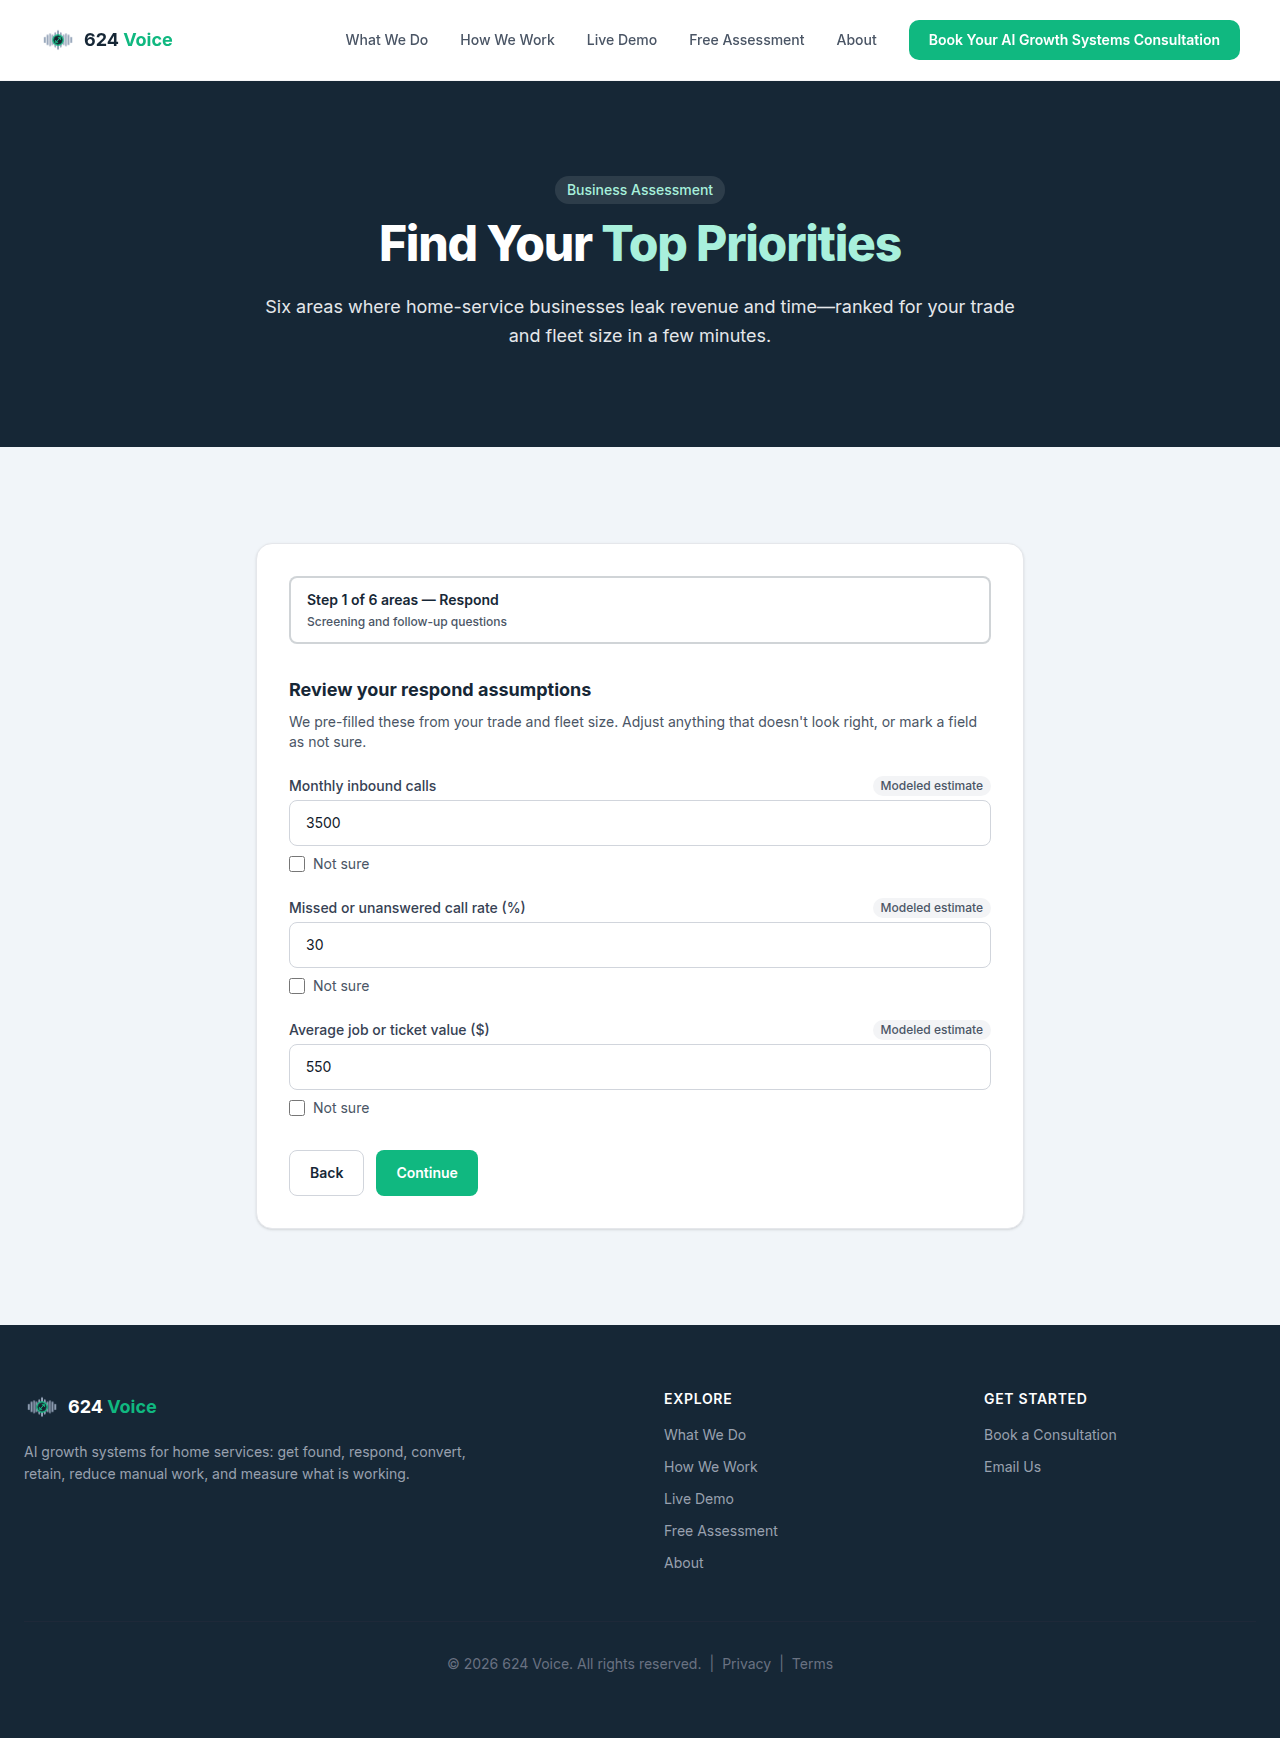
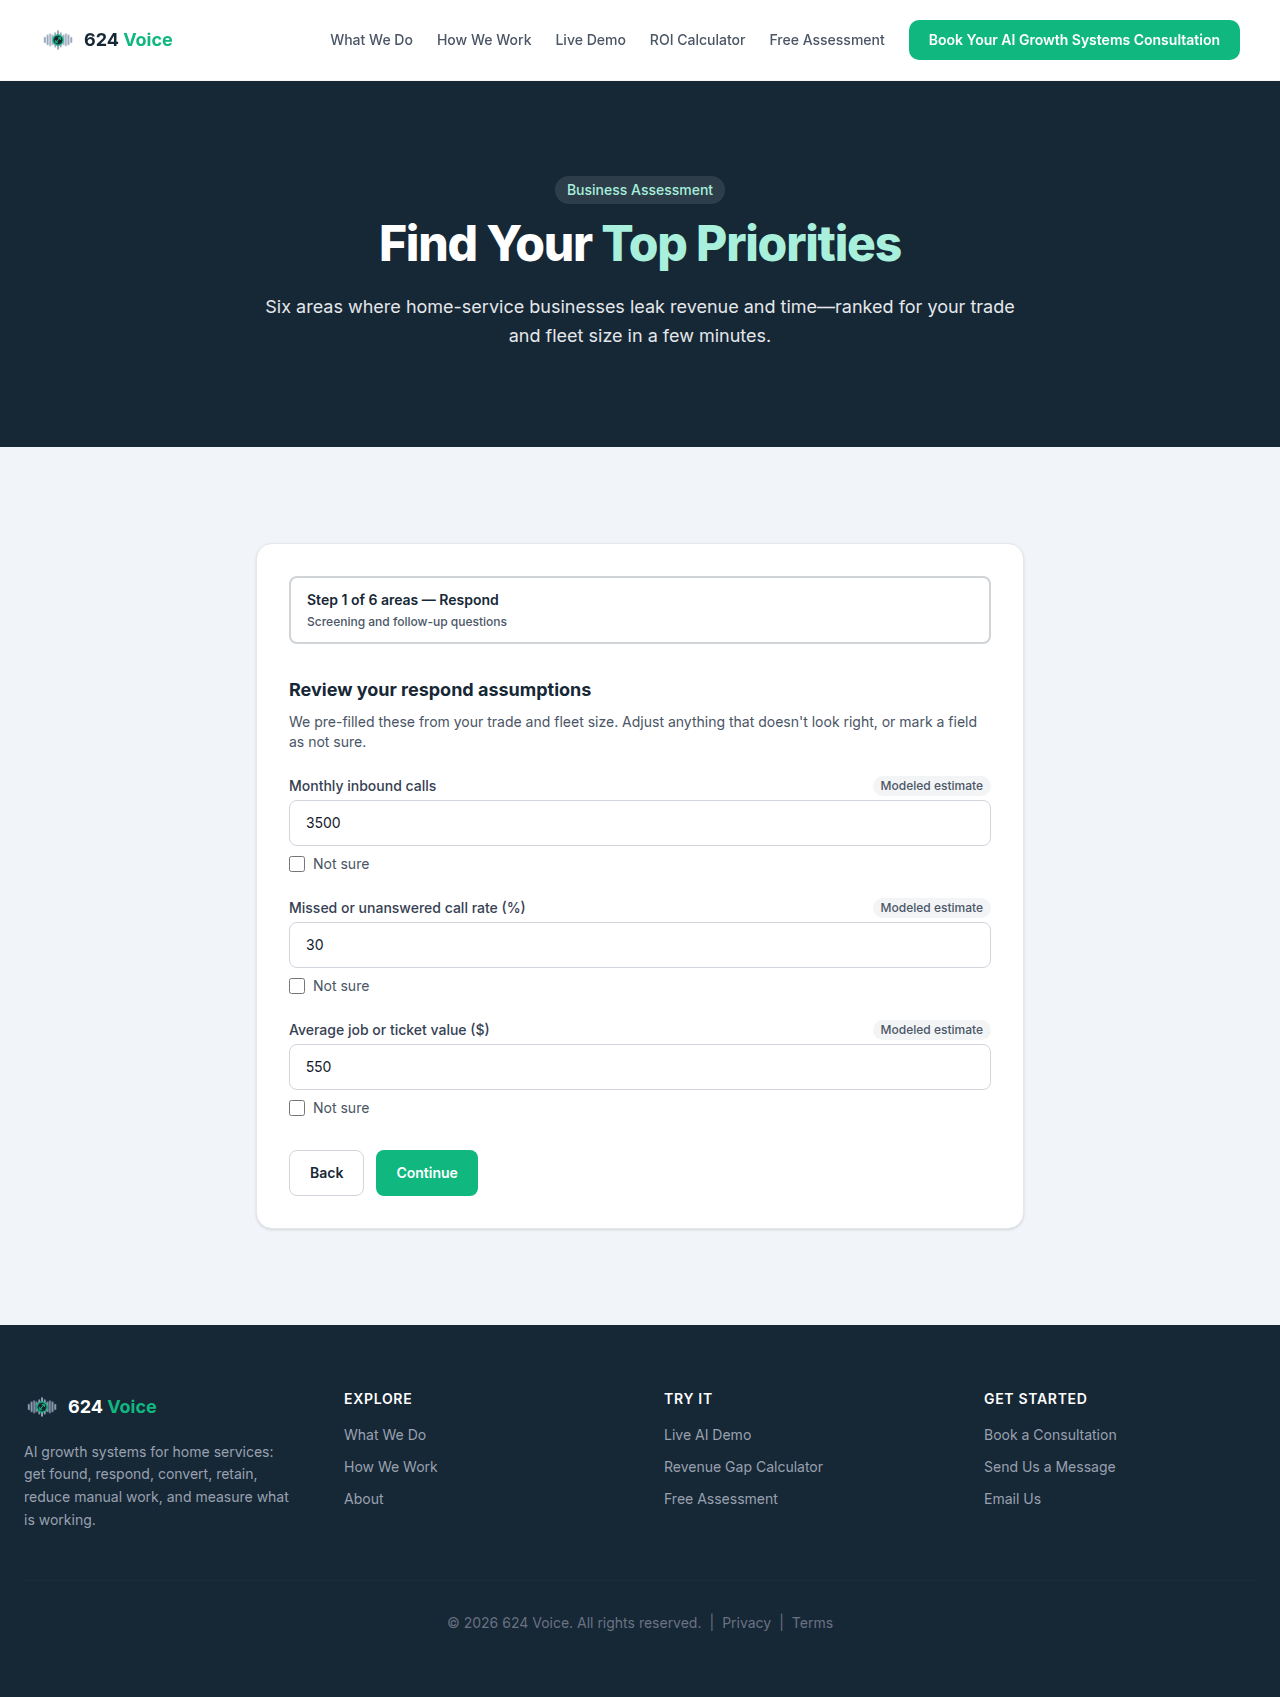
Add conversion handoff, protected preview URL, and review screenshots

diff --git a/review-artifacts/phase2/owner-keyboard-walkthrough-v5.md b/review-artifacts/phase2/owner-keyboard-walkthrough-v5.md
@@ -2,12 +2,12 @@
 
 ## EXECUTABLE CHECKOUT SHA
 
-**Final executable preview checkout SHA:** `c06761d7aa70619520bd80f109d384a1f58ad6e2`
+**Final executable preview checkout SHA:** `d041587f7a6c8e731691d00587fc39141db69a7b`
 
 ## CHECKOUT
 
 ```bash
-git checkout c06761d7aa70619520bd80f109d384a1f58ad6e2
+git checkout d041587f7a6c8e731691d00587fc39141db69a7b
 ```
 
 Canonical owner handoff Markdown is versioned separately in evidence commits. After checkout, extract the audited handoff without modifying tracked files (see outer delivery report for canonical commit SHA, extraction command, and SHA-256 verification).
@@ -24,7 +24,7 @@ Canonical owner handoff Markdown is versioned separately in evidence commits. Af
 
 Open the protected Netlify preview URL in Chrome. Sign in with your Netlify team account or enter the shared preview password when Netlify prompts you.
 
-**URL:** https://6ac3ce0b4ddd1b7b069d8a19--624voice-phase2-owner-qa.netlify.app/
+**URL:** https://6ac3dda882a472ad10fb0280--624voice-phase2-owner-qa.netlify.app/
 
 After authentication you should see the normal 624 Voice home page (header with 624 Voice link). If Netlify shows only an login or password form and never reaches the site, stop and report authentication failure.
 
@@ -83,7 +83,7 @@ From 624 Voice header link:
 ### Check 1 — Desktop header — five Tabs from 624 Voice to About
 
 - **Viewport:** Chrome DevTools open (Command+Option+I), device toolbar active (Command+Shift+M), Responsive mode, width 1280 CSS px, height 900 CSS px. Verify displayed dimensions read 1280 × 900 before starting.
-- **Starting URL or preceding-check state:** https://6ac3ce0b4ddd1b7b069d8a19--624voice-phase2-owner-qa.netlify.app/
+- **Starting URL or preceding-check state:** https://6ac3dda882a472ad10fb0280--624voice-phase2-owner-qa.netlify.app/
 - **Starting focused element:** Document body before reset Tab
 - **Literal bounded key sequence:**
   1. Press Command+L, type the check URL, press Enter.
@@ -116,7 +116,7 @@ From 624 Voice header link:
 ### Check 3 — Mobile nav — Enter opens menu
 
 - **Viewport:** Chrome DevTools open (Command+Option+I), device toolbar active (Command+Shift+M), Responsive mode, width 375 CSS px, height 800 CSS px. Verify displayed dimensions read 375 × 800 before starting.
-- **Starting URL or preceding-check state:** https://6ac3ce0b4ddd1b7b069d8a19--624voice-phase2-owner-qa.netlify.app/
+- **Starting URL or preceding-check state:** https://6ac3dda882a472ad10fb0280--624voice-phase2-owner-qa.netlify.app/
 - **Starting focused element:** Document body before reset Tab
 - **Literal bounded key sequence:**
   1. Press Command+L, type the check URL, press Enter.
@@ -164,7 +164,7 @@ From 624 Voice header link:
 ### Check 6 — Home keyboard reachability
 
 - **Viewport:** Chrome DevTools open (Command+Option+I), device toolbar active (Command+Shift+M), Responsive mode, width 1280 CSS px, height 900 CSS px. Verify displayed dimensions read 1280 × 900 before starting.
-- **Starting URL or preceding-check state:** https://6ac3ce0b4ddd1b7b069d8a19--624voice-phase2-owner-qa.netlify.app/
+- **Starting URL or preceding-check state:** https://6ac3dda882a472ad10fb0280--624voice-phase2-owner-qa.netlify.app/
 - **Starting focused element:** Document body before reset Tab
 - **Literal bounded key sequence:**
   1. Press Command+L, type the check URL, press Enter.
@@ -201,7 +201,7 @@ From 624 Voice header link:
 ### Check 8 — /what-we-do keyboard reachability
 
 - **Viewport:** Chrome DevTools open (Command+Option+I), device toolbar active (Command+Shift+M), Responsive mode, width 1280 CSS px, height 900 CSS px. Verify displayed dimensions read 1280 × 900 before starting.
-- **Starting URL or preceding-check state:** https://6ac3ce0b4ddd1b7b069d8a19--624voice-phase2-owner-qa.netlify.app/what-we-do
+- **Starting URL or preceding-check state:** https://6ac3dda882a472ad10fb0280--624voice-phase2-owner-qa.netlify.app/what-we-do
 - **Starting focused element:** Document body before reset Tab
 - **Literal bounded key sequence:**
   1. Press Command+L, type the check URL, press Enter.
@@ -236,7 +236,7 @@ From 624 Voice header link:
 ### Check 10 — /how-we-work keyboard reachability
 
 - **Viewport:** Chrome DevTools open (Command+Option+I), device toolbar active (Command+Shift+M), Responsive mode, width 1280 CSS px, height 900 CSS px. Verify displayed dimensions read 1280 × 900 before starting.
-- **Starting URL or preceding-check state:** https://6ac3ce0b4ddd1b7b069d8a19--624voice-phase2-owner-qa.netlify.app/how-we-work
+- **Starting URL or preceding-check state:** https://6ac3dda882a472ad10fb0280--624voice-phase2-owner-qa.netlify.app/how-we-work
 - **Starting focused element:** Document body before reset Tab
 - **Literal bounded key sequence:**
   1. Press Command+L, type the check URL, press Enter.
@@ -272,7 +272,7 @@ From 624 Voice header link:
 ### Check 12 — /demo keyboard reachability
 
 - **Viewport:** Chrome DevTools open (Command+Option+I), device toolbar active (Command+Shift+M), Responsive mode, width 1280 CSS px, height 900 CSS px. Verify displayed dimensions read 1280 × 900 before starting.
-- **Starting URL or preceding-check state:** https://6ac3ce0b4ddd1b7b069d8a19--624voice-phase2-owner-qa.netlify.app/demo
+- **Starting URL or preceding-check state:** https://6ac3dda882a472ad10fb0280--624voice-phase2-owner-qa.netlify.app/demo
 - **Starting focused element:** Document body before reset Tab
 - **Literal bounded key sequence:**
   1. Press Command+L, type the check URL, press Enter.
@@ -308,7 +308,7 @@ From 624 Voice header link:
 ### Check 14 — /about keyboard reachability
 
 - **Viewport:** Chrome DevTools open (Command+Option+I), device toolbar active (Command+Shift+M), Responsive mode, width 1280 CSS px, height 900 CSS px. Verify displayed dimensions read 1280 × 900 before starting.
-- **Starting URL or preceding-check state:** https://6ac3ce0b4ddd1b7b069d8a19--624voice-phase2-owner-qa.netlify.app/about
+- **Starting URL or preceding-check state:** https://6ac3dda882a472ad10fb0280--624voice-phase2-owner-qa.netlify.app/about
 - **Starting focused element:** Document body before reset Tab
 - **Literal bounded key sequence:**
   1. Press Command+L, type the check URL, press Enter.
@@ -344,7 +344,7 @@ From 624 Voice header link:
 ### Check 16 — /contact keyboard reachability
 
 - **Viewport:** Chrome DevTools open (Command+Option+I), device toolbar active (Command+Shift+M), Responsive mode, width 1280 CSS px, height 900 CSS px. Verify displayed dimensions read 1280 × 900 before starting.
-- **Starting URL or preceding-check state:** https://6ac3ce0b4ddd1b7b069d8a19--624voice-phase2-owner-qa.netlify.app/contact
+- **Starting URL or preceding-check state:** https://6ac3dda882a472ad10fb0280--624voice-phase2-owner-qa.netlify.app/contact
 - **Starting focused element:** Document body before reset Tab
 - **Literal bounded key sequence:**
   1. Press Command+L, type the check URL, press Enter.
@@ -382,21 +382,21 @@ From 624 Voice header link:
 ### Check 18 — /services redirect
 
 - **Viewport:** Chrome DevTools open (Command+Option+I), device toolbar active (Command+Shift+M), Responsive mode, width 1280 CSS px, height 900 CSS px. Verify displayed dimensions read 1280 × 900 before starting.
-- **Starting URL or preceding-check state:** https://6ac3ce0b4ddd1b7b069d8a19--624voice-phase2-owner-qa.netlify.app/services
+- **Starting URL or preceding-check state:** https://6ac3dda882a472ad10fb0280--624voice-phase2-owner-qa.netlify.app/services
 - **Starting focused element:** Address bar
 - **Literal bounded key sequence:**
-  1. Press Command+L, type https://6ac3ce0b4ddd1b7b069d8a19--624voice-phase2-owner-qa.netlify.app/services, press Enter.
+  1. Press Command+L, type https://6ac3dda882a472ad10fb0280--624voice-phase2-owner-qa.netlify.app/services, press Enter.
   2. Press Command+L, read address bar URL.
 - **Expected rendered state:** What We Do page content rendered.
-- **Final focused element:** Address bar showing https://6ac3ce0b4ddd1b7b069d8a19--624voice-phase2-owner-qa.netlify.app/what-we-do
+- **Final focused element:** Address bar showing https://6ac3dda882a472ad10fb0280--624voice-phase2-owner-qa.netlify.app/what-we-do
 - **State deliberately left for next check:** Browser at /what-we-do.
-- **PASS:** Address bar reads https://6ac3ce0b4ddd1b7b069d8a19--624voice-phase2-owner-qa.netlify.app/what-we-do after loading /services.
-- **FAIL:** Address bar does not read https://6ac3ce0b4ddd1b7b069d8a19--624voice-phase2-owner-qa.netlify.app/what-we-do.
+- **PASS:** Address bar reads https://6ac3dda882a472ad10fb0280--624voice-phase2-owner-qa.netlify.app/what-we-do after loading /services.
+- **FAIL:** Address bar does not read https://6ac3dda882a472ad10fb0280--624voice-phase2-owner-qa.netlify.app/what-we-do.
 
 ### Check 19 — 404 keyboard reachability
 
 - **Viewport:** Chrome DevTools open (Command+Option+I), device toolbar active (Command+Shift+M), Responsive mode, width 1280 CSS px, height 900 CSS px. Verify displayed dimensions read 1280 × 900 before starting.
-- **Starting URL or preceding-check state:** https://6ac3ce0b4ddd1b7b069d8a19--624voice-phase2-owner-qa.netlify.app/does-not-exist-404
+- **Starting URL or preceding-check state:** https://6ac3dda882a472ad10fb0280--624voice-phase2-owner-qa.netlify.app/does-not-exist-404
 - **Starting focused element:** Document body before reset Tab
 - **Literal bounded key sequence:**
   1. Press Command+L, type the check URL, press Enter.
@@ -431,7 +431,7 @@ From 624 Voice header link:
 ### Check 21 — Assessment BP1 — native SELECT trade HVAC and Continue
 
 - **Viewport:** Chrome DevTools open (Command+Option+I), device toolbar active (Command+Shift+M), Responsive mode, width 1280 CSS px, height 900 CSS px. Verify displayed dimensions read 1280 × 900 before starting.
-- **Starting URL or preceding-check state:** https://6ac3ce0b4ddd1b7b069d8a19--624voice-phase2-owner-qa.netlify.app/assessment
+- **Starting URL or preceding-check state:** https://6ac3dda882a472ad10fb0280--624voice-phase2-owner-qa.netlify.app/assessment
 - **Starting focused element:** Document body before reset Tab
 - **Literal bounded key sequence:**
   1. Press Command+L, type the check URL, press Enter.
@@ -918,7 +918,7 @@ Close the Chrome tab when finished. No local preview server shutdown is required
 
 | Field | Value |
 |---|---|
-| Tested SHA | c06761d7aa70619520bd80f109d384a1f58ad6e2 |
+| Tested SHA | d041587f7a6c8e731691d00587fc39141db69a7b |
 | Operator | |
 | Executed at (ISO) | |
 | Confirmed physical keyboard only | |

diff --git a/review-artifacts/phase2/website-polish/OWNER_PREVIEW_ACCESS.md b/review-artifacts/phase2/website-polish/OWNER_PREVIEW_ACCESS.md
@@ -1,17 +1,16 @@
-# Owner access — website-polish preview (open, no Basic Auth)
+# Owner access — protected conversion-focused preview
 
-**Owner-authorized open review (2026-10-05):** HTTP Basic Auth disabled on the surfaces below. **Noindex** remains via the edge gate and headers.
+**HTTP Basic Auth required** on owner-QA and PR #98 deploy preview. **Noindex** remains via the edge gate.
 
-## Open preview URLs
+## URLs
 
-**PR #98 deploy preview:** https://deploy-preview-98--624voice.netlify.app/
+- **Owner-QA (canonical for this revision):** https://6ac3dda882a472ad10fb0280--624voice-phase2-owner-qa.netlify.app/
+- **PR #98 deploy preview:** https://deploy-preview-98--624voice.netlify.app/
 
-**Owner-QA Netlify site:** https://6ac3ce0b4ddd1b7b069d8a19--624voice-phase2-owner-qa.netlify.app/
+## Credentials
 
-No password is required. Use a normal browser window (no HTTP Basic Auth prompt).
+Use the credentials from the latest protected deploy artifact on the Cloud Agent run (`netlify-owner-qa-preview-basic-auth.txt`). Values are **not** stored in the repository.
 
-Production **https://www.624voice.com** is unrelated to this gate.
+## Handoff
 
-## Security decision record
-
-Authorization and policy: `review-artifacts/phase2/website-polish/security-decision-evidence.json` (decision `open-preview-owner-review-2026-10-05`).
+See `conversion-revision-handoff.json` for section inventory, CTA map, demo form audit, tests, and runtime SHA.
